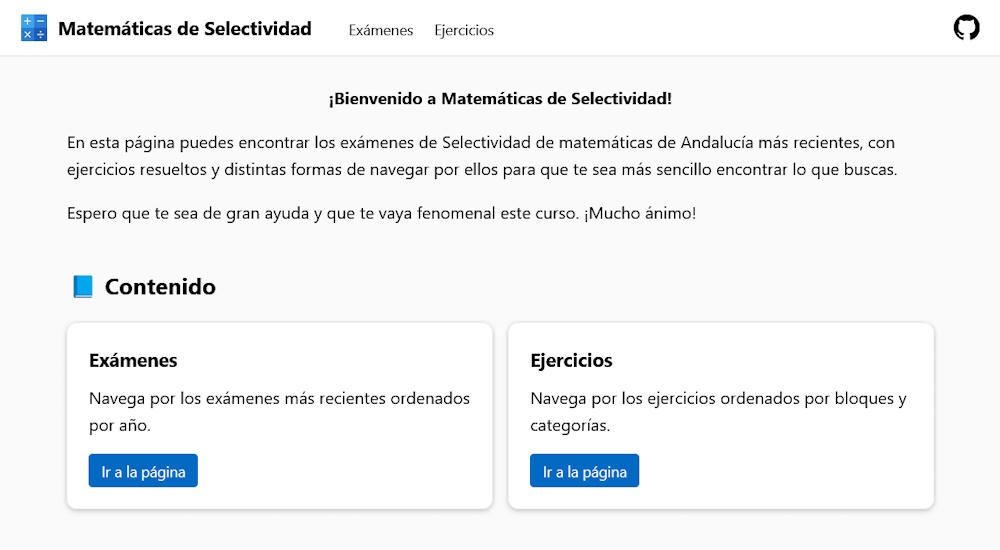
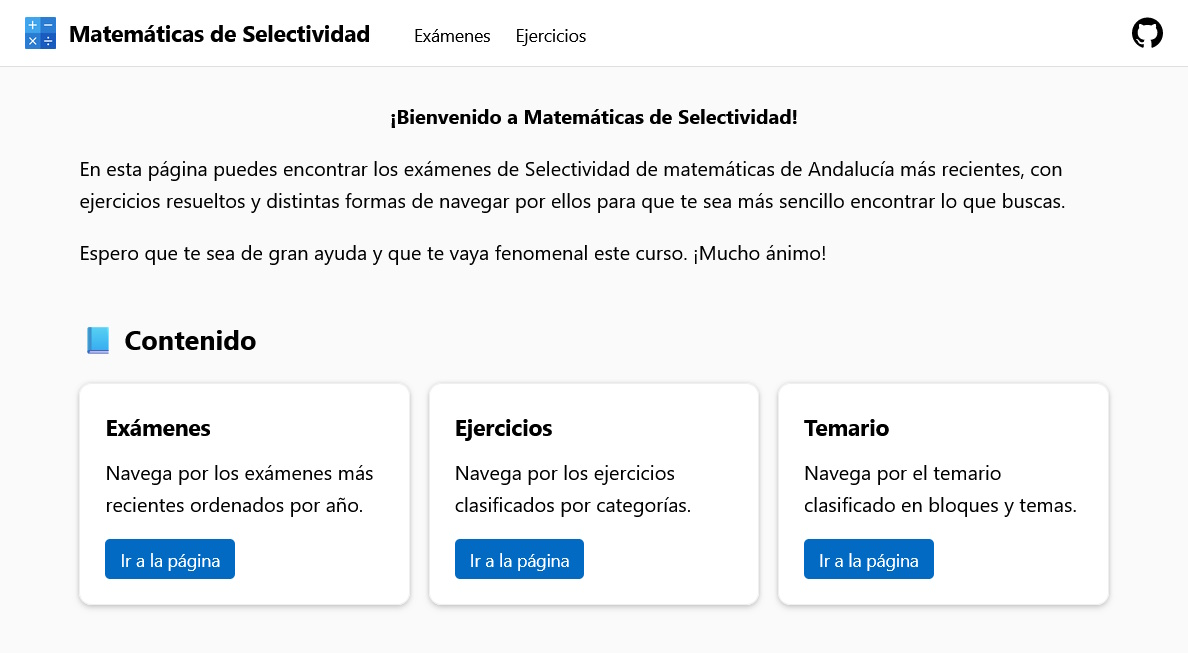
Enlace a la sección de temario.

diff --git a/index.html b/index.html
@@ -60,8 +60,14 @@
 
                 <div class="tarjeta">
                     <h3>Ejercicios</h3>
-                    <p>Navega por los ejercicios ordenados por bloques y categorías.</p>
+                    <p>Navega por los ejercicios clasificados por categorías.</p>
                     <a href="/ejercicios.html" class="acento">Ir a la página</a>
+                </div>
+
+                <div class="tarjeta">
+                    <h3>Temario</h3>
+                    <p>Navega por el temario clasificado en bloques y temas.</p>
+                    <a href="/temario.html" class="acento">Ir a la página</a>
                 </div>
             </div>
         </section>

diff --git a/temario.html b/temario.html
@@ -87,7 +87,9 @@
     </nav>
 
     <main>
-        <p>Selecciona una sección para abrirla.</p>
+        <p>Selecciona una sección para abrirla.<br>
+            El temario todavía está en construcción.
+        </p>
     </main>
 </body>
 

diff --git a/README.md b/README.md
@@ -1,12 +1,13 @@
 # Matemáticas de Selectividad
 
-Matemáticas de Selectividad es una página web para ver los exámenes de Selectividad de matemáticas de Andalucía, navegar por los ejercicios de forma sencilla y revisar sus resoluciones.
+Matemáticas de Selectividad es una página web para ver los exámenes de Selectividad de matemáticas de Andalucía, navegar por los ejercicios de forma sencilla, revisar sus resoluciones y explorar el temario del curso.
 
 Los principales objetivos son los siguientes.
 
 - 🔍 Navegación intuitiva y rápida.
 - 📱 Adaptabilidad a dispositivos móviles.
 - ⌚ Tiempos de carga reducidos.
+- 💰 Libre de anuncios y coste.
 
 La página hace uso de [MathJax](https://www.mathjax.org/) para mostrar los ejercicios directamente en el navegador.
 Los exámenes están ordenados por año y los ejercicios están clasificados por categorías.
